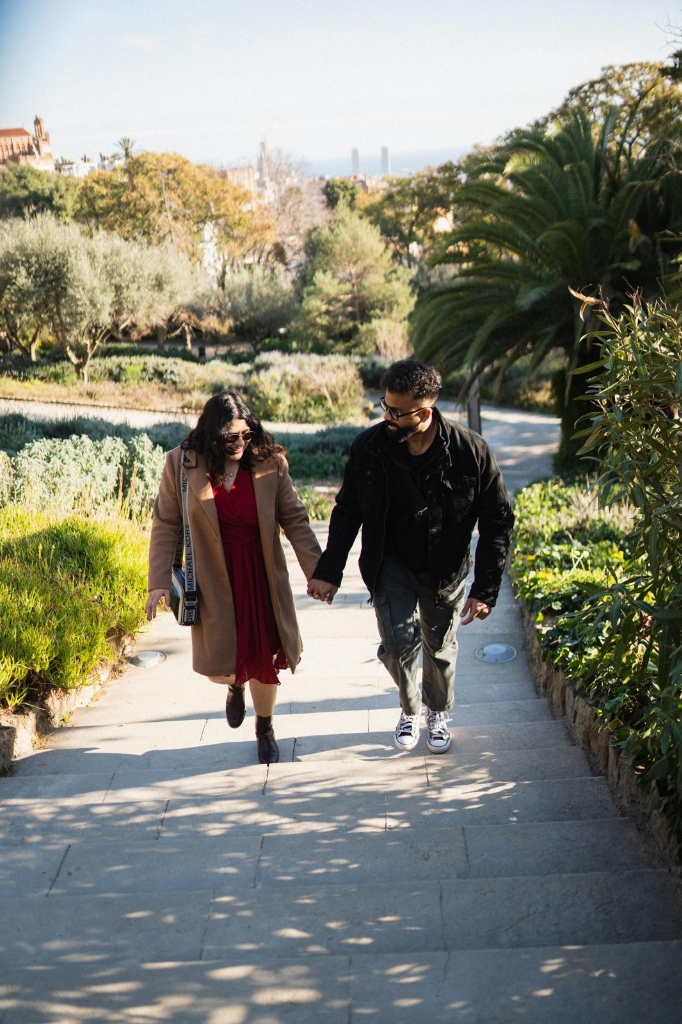
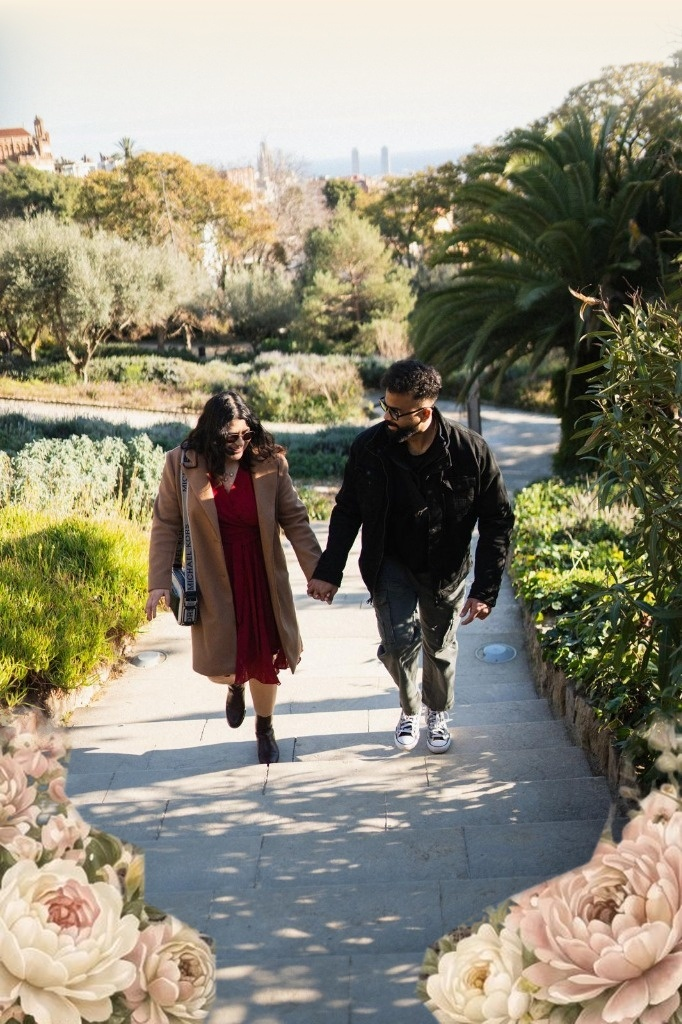
Style couple photo section like reference Image 1: full-width photo of Ariana & Aaron with soft top parchment fade, gold cursive header, and watercolor floral bouquets

diff --git a/index.html b/index.html
@@ -365,21 +365,14 @@ alt='' imgfield='tn_img_1773673546575'
     <a href="https://calendar.google.com/calendar/render?action=TEMPLATE&text=Ariana%20%26%20Aaron%20Wedding%20Celebration&dates=20270116T133000Z/20270116T153000Z&details=An%20evening%20of%20love%2C%20laughter%2C%20celebration%2C%20and%20togetherness.&location=Kovilakom%20Resort%2C%20Muhamma%2C%20Kerala%2C%20India" target="_blank" rel="noopener" style="display:inline-block;margin-top:12px;padding:10px 22px;background:transparent;color:#a67d2b;text-decoration:none;border:1.5px solid #a67d2b;border-radius:20px;font-family:'Cinzel',Georgia,serif;font-size:12px;letter-spacing:0.22em;text-transform:uppercase;">Add to Calendar</a>
   </div>
 </div> </div> </div> <div class='t396__elem tn-elem tn-elem__24874461631782460739526000001' data-elem-id='1782460739526000001' data-elem-type='image' data-field-top-value="-26" data-field-left-value="505" data-field-height-value="42" data-field-width-value="190" data-field-axisy-value="top" data-field-axisx-value="left" data-field-container-value="grid" data-field-topunits-value="px" data-field-leftunits-value="px" data-field-heightunits-value="px" data-field-widthunits-value="px" data-field-filewidth-value="605" data-field-fileheight-value="135" data-field-heightmode-value="hug" data-field-left-res-320-value="65" data-field-height-res-320-value="42" data-field-left-res-480-value="145" data-field-height-res-480-value="42" data-field-left-res-640-value="225" data-field-height-res-640-value="42" data-field-left-res-960-value="385" data-field-height-res-960-value="42"> <div class='tn-atom'> <img class='tn-atom__img t-img' data-original='images/cdn/noroot_6.png' src='images/cdn/noroot_6.png' alt='' imgfield='' /> </div> </div> <div class='t396__elem tn-elem tn-elem__24874461631782460739527000002' data-elem-id='1782460739527000002' data-elem-type='image' data-field-top-value="328" data-field-left-value="505" data-field-height-value="42" data-field-width-value="190" data-field-axisy-value="top" data-field-axisx-value="left" data-field-container-value="grid" data-field-topunits-value="px" data-field-leftunits-value="px" data-field-heightunits-value="px" data-field-widthunits-value="px" data-field-filewidth-value="605" data-field-fileheight-value="135" data-field-heightmode-value="hug" data-field-left-res-320-value="65" data-field-height-res-320-value="42" data-field-left-res-480-value="145" data-field-height-res-480-value="42" data-field-left-res-640-value="225" data-field-height-res-640-value="42" data-field-left-res-960-value="385" data-field-height-res-960-value="42"> <div class='tn-atom'> <img class='tn-atom__img t-img' data-original='images/cdn/noroot_11.png' src='images/cdn/noroot_11.png' alt='' imgfield='' /> </div> </div> </div> </div> <script>t_onReady(function() {t_onFuncLoad('t396_init',function() {t396_init('2487446163');});});</script> <!-- /T396 --> </div> <div id="rec2487446183" class="r t-rec t-rec_pt_0 t-rec_pb_0" style="padding-top:0px;padding-bottom:0px;background-color:#f6f1e8; " data-animationappear="off" data-record-type="396" data-bg-color="#f6f1e8"> <!-- T396 --> <style>#rec2487446183 .t396__artboard {height:520px;background-color:#f9f0e0;}#rec2487446183 .t396__filter {height:520px;}#rec2487446183 .t396__carrier{height:520px;background-position:center center;background-attachment:scroll;background-size:cover;background-repeat:no-repeat;}@media screen and (max-width:1199px) {#rec2487446183 .t396__artboard,#rec2487446183 .t396__filter,#rec2487446183 .t396__carrier {height:491px;}#rec2487446183 .t396__filter {}#rec2487446183 .t396__carrier {background-attachment:scroll;}}@media screen and (max-width:959px) {#rec2487446183 .t396__artboard,#rec2487446183 .t396__filter,#rec2487446183 .t396__carrier {height:491px;}#rec2487446183 .t396__filter {}#rec2487446183 .t396__carrier {background-attachment:scroll;}}@media screen and (max-width:639px) {#rec2487446183 .t396__artboard,#rec2487446183 .t396__filter,#rec2487446183 .t396__carrier {height:491px;}#rec2487446183 .t396__filter {}#rec2487446183 .t396__carrier {background-attachment:scroll;}}@media screen and (max-width:479px) {#rec2487446183 .t396__artboard,#rec2487446183 .t396__filter,#rec2487446183 .t396__carrier {height:491px;}#rec2487446183 .t396__filter {}#rec2487446183 .t396__carrier {background-attachment:scroll;}}#rec2487446183 .tn-elem[data-elem-id="1779531257276000001"]{z-index:3;top:-183px;;left:calc(50% - 600px + 212px);;width:122px;height:auto;}#rec2487446183 .tn-elem[data-elem-id="1779531257276000001"] .tn-atom{border-radius:0px 0px 0px 0px;background-position:center center;border-width:var(--t396-borderwidth,0);border-style:var(--t396-borderstyle,solid);border-color:var(--t396-bordercolor,transparent);transition:background-color var(--t396-speedhover,0s) ease-in-out,color var(--t396-speedhover,0s) ease-in-out,border-color var(--t396-speedhover,0s) ease-in-out,box-shadow var(--t396-shadowshoverspeed,0.2s) ease-in-out;}#rec2487446183 .tn-elem[data-elem-id="1779531257276000001"] .tn-atom__img{border-radius:0px 0px 0px 0px;object-position:center center;}@media screen and (max-width:1199px){#rec2487446183 .tn-elem[data-elem-id="1779531257276000001"]{display:table;left:calc(50% - 480px + 224px);;height:auto;}}@media screen and (max-width:959px){#rec2487446183 .tn-elem[data-elem-id="1779531257276000001"]{display:table;left:calc(50% - 320px + 64px);;height:auto;}}@media screen and (max-width:639px){#rec2487446183 .tn-elem[data-elem-id="1779531257276000001"]{display:table;left:calc(50% - 240px + -16px);;height:auto;}}@media screen and (max-width:479px){#rec2487446183 .tn-elem[data-elem-id="1779531257276000001"]{display:table;left:calc(50% - 160px + -96px);;height:auto;}}#rec2487446183 .tn-elem[data-elem-id="1779529136519000001"]{display:block;z-index:3;top:20px;;left:calc(50% - 600px + 228px);;width:744px;height:453px;}#rec2487446183 .tn-elem[data-elem-id="1779529136519000001"] .tn-atom{display:block;height:100%;box-sizing:border-box;border-radius:0px 0px 0px 0px;background-position:center center;border-width:var(--t396-borderwidth,0);border-style:var(--t396-borderstyle,solid);border-color:var(--t396-bordercolor,transparent);transition:background-color var(--t396-speedhover,0s) ease-in-out,color var(--t396-speedhover,0s) ease-in-out,border-color var(--t396-speedhover,0s) ease-in-out,box-shadow var(--t396-shadowshoverspeed,0.2s) ease-in-out;}#rec2487446183 .tn-elem[data-elem-id="1779529136519000001"] .tn-atom__img{border-radius:0px 0px 0px 0px;object-fit:fill;height:100%;object-position:center center;}@media screen and (max-width:1199px){#rec2487446183 .tn-elem[data-elem-id="1779529136519000001"]{display:block;left:calc(50% - 480px + 108px);;height:453px;}}@media screen and (max-width:959px){#rec2487446183 .tn-elem[data-elem-id="1779529136519000001"]{display:block;left:calc(50% - 320px + -52px);;height:454px;}}@media screen and (max-width:639px){#rec2487446183 .tn-elem[data-elem-id="1779529136519000001"]{display:block;left:calc(50% - 240px + -132px);;height:452px;}}@media screen and (max-width:479px){#rec2487446183 .tn-elem[data-elem-id="1779529136519000001"]{display:block;left:calc(50% - 160px + -212px);;height:452px;}}#rec2487446183 .tn-elem[data-elem-id="1772813849329000001"]{color:#6c513f;text-align:center;z-index:3;top:361px;;left:calc(50% - 600px + 445px);;width:310px;height:auto;}#rec2487446183 .tn-elem[data-elem-id="1772813849329000001"] .tn-atom{vertical-align:middle;color:#6c513f;font-size:21px;font-family:'NewFonts',Arial,sans-serif;line-height:1.25;font-weight:100;background-position:center center;border-width:var(--t396-borderwidth,0);border-style:var(--t396-borderstyle,solid);border-color:var(--t396-bordercolor,transparent);transition:background-color var(--t396-speedhover,0s) ease-in-out,color var(--t396-speedhover,0s) ease-in-out,border-color var(--t396-speedhover,0s) ease-in-out,box-shadow var(--t396-shadowshoverspeed,0.2s) ease-in-out;--t396-shadow-text-opacity:100%;text-shadow:var(--t396-shadow-text-x,0px) var(--t396-shadow-text-y,0px) var(--t396-shadow-text-blur,0px) rgba(var(--t396-shadow-text-color),var(--t396-shadow-text-opacity,100%));}@media screen and (max-width:1199px){#rec2487446183 .tn-elem[data-elem-id="1772813849329000001"]{display:table;left:calc(50% - 480px + 325px);;width:px;height:auto;}#rec2487446183 .tn-elem[data-elem-id="1772813849329000001"] .tn-atom{white-space:normal;background-size:cover;}}@media screen and (max-width:959px){#rec2487446183 .tn-elem[data-elem-id="1772813849329000001"]{display:table;left:calc(50% - 320px + 165px);;width:px;height:auto;}#rec2487446183 .tn-elem[data-elem-id="1772813849329000001"] .tn-atom{white-space:normal;background-size:cover;}}@media screen and (max-width:639px){#rec2487446183 .tn-elem[data-elem-id="1772813849329000001"]{display:table;left:calc(50% - 240px + 85px);;width:px;height:auto;}#rec2487446183 .tn-elem[data-elem-id="1772813849329000001"] .tn-atom{white-space:normal;background-size:cover;}}@media screen and (max-width:479px){#rec2487446183 .tn-elem[data-elem-id="1772813849329000001"]{display:table;left:calc(50% - 160px + 5px);;width:px;height:auto;}#rec2487446183 .tn-elem[data-elem-id="1772813849329000001"] .tn-atom{white-space:normal;background-size:cover;}}#rec2487446183 .tn-elem[data-elem-id="1763405219328"]{color:#a67d2b;text-align:center;z-index:3;top:284px;;left:calc(50% - 600px + 320px);;width:560px;height:auto;}#rec2487446183 .tn-elem[data-elem-id="1763405219328"] .tn-atom{vertical-align:middle;color:#a67d2b;font-size:41px;font-family:'NewFonts',Arial,sans-serif;line-height:1.55;font-weight:300;background-position:center center;border-width:var(--t396-borderwidth,0);border-style:var(--t396-borderstyle,solid);border-color:var(--t396-bordercolor,transparent);transition:background-color var(--t396-speedhover,0s) ease-in-out,color var(--t396-speedhover,0s) ease-in-out,border-color var(--t396-speedhover,0s) ease-in-out,box-shadow var(--t396-shadowshoverspeed,0.2s) ease-in-out;--t396-shadow-text-opacity:100%;text-shadow:var(--t396-shadow-text-x,0px) var(--t396-shadow-text-y,0px) var(--t396-shadow-text-blur,0px) rgba(var(--t396-shadow-text-color),var(--t396-shadow-text-opacity,100%));}@media screen and (max-width:1199px){#rec2487446183 .tn-elem[data-elem-id="1763405219328"]{display:table;left:calc(50% - 480px + 200px);;width:px;height:auto;}#rec2487446183 .tn-elem[data-elem-id="1763405219328"] .tn-atom{white-space:normal;background-size:cover;}}@media screen and (max-width:959px){#rec2487446183 .tn-elem[data-elem-id="1763405219328"]{display:table;left:calc(50% - 320px + 40px);;width:px;height:auto;}#rec2487446183 .tn-elem[data-elem-id="1763405219328"] .tn-atom{white-space:normal;background-size:cover;}}@media screen and (max-width:639px){#rec2487446183 .tn-elem[data-elem-id="1763405219328"]{display:table;left:calc(50% - 240px + -40px);;width:px;height:auto;}#rec2487446183 .tn-elem[data-elem-id="1763405219328"] .tn-atom{white-space:normal;background-size:cover;}}@media screen and (max-width:479px){#rec2487446183 .tn-elem[data-elem-id="1763405219328"]{display:table;left:calc(50% - 160px + -120px);;width:px;height:auto;}#rec2487446183 .tn-elem[data-elem-id="1763405219328"] .tn-atom{white-space:normal;background-size:cover;}}#rec2487446183 .tn-elem[data-elem-id="1778524751695000001"]{color:#6c513f;text-align:center;z-index:3;top:163px;;left:calc(50% - 600px + 445px);;width:310px;height:auto;}#rec2487446183 .tn-elem[data-elem-id="1778524751695000001"] .tn-atom{vertical-align:middle;color:#6c513f;font-size:21px;font-family:'NewFonts',Arial,sans-serif;line-height:1.25;font-weight:100;background-position:center center;border-width:var(--t396-borderwidth,0);border-style:var(--t396-borderstyle,solid);border-color:var(--t396-bordercolor,transparent);transition:background-color var(--t396-speedhover,0s) ease-in-out,color var(--t396-speedhover,0s) ease-in-out,border-color var(--t396-speedhover,0s) ease-in-out,box-shadow var(--t396-shadowshoverspeed,0.2s) ease-in-out;--t396-shadow-text-opacity:100%;text-shadow:var(--t396-shadow-text-x,0px) var(--t396-shadow-text-y,0px) var(--t396-shadow-text-blur,0px) rgba(var(--t396-shadow-text-color),var(--t396-shadow-text-opacity,100%));}@media screen and (max-width:1199px){#rec2487446183 .tn-elem[data-elem-id="1778524751695000001"]{display:table;left:calc(50% - 480px + 325px);;width:px;height:auto;}#rec2487446183 .tn-elem[data-elem-id="1778524751695000001"] .tn-atom{white-space:normal;background-size:cover;}}@media screen and (max-width:959px){#rec2487446183 .tn-elem[data-elem-id="1778524751695000001"]{display:table;left:calc(50% - 320px + 165px);;width:px;height:auto;}#rec2487446183 .tn-elem[data-elem-id="1778524751695000001"] .tn-atom{white-space:normal;background-size:cover;}}@media screen and (max-width:639px){#rec2487446183 .tn-elem[data-elem-id="1778524751695000001"]{display:table;left:calc(50% - 240px + 85px);;width:px;height:auto;}#rec2487446183 .tn-elem[data-elem-id="1778524751695000001"] .tn-atom{white-space:normal;background-size:cover;}}@media screen and (max-width:479px){#rec2487446183 .tn-elem[data-elem-id="1778524751695000001"]{display:table;left:calc(50% - 160px + 10px);;width:300px;height:auto;}#rec2487446183 .tn-elem[data-elem-id="1778524751695000001"] .tn-atom{white-space:normal;background-size:cover;}}#rec2487446183 .tn-elem[data-elem-id="1778524751695000002"]{color:#a67d2b;text-align:center;z-index:3;top:86px;;left:calc(50% - 600px + 320px);;width:560px;height:auto;}#rec2487446183 .tn-elem[data-elem-id="1778524751695000002"] .tn-atom{vertical-align:middle;color:#a67d2b;font-size:41px;font-family:'NewFonts',Arial,sans-serif;line-height:1.55;font-weight:300;background-position:center center;border-width:var(--t396-borderwidth,0);border-style:var(--t396-borderstyle,solid);border-color:var(--t396-bordercolor,transparent);transition:background-color var(--t396-speedhover,0s) ease-in-out,color var(--t396-speedhover,0s) ease-in-out,border-color var(--t396-speedhover,0s) ease-in-out,box-shadow var(--t396-shadowshoverspeed,0.2s) ease-in-out;--t396-shadow-text-opacity:100%;text-shadow:var(--t396-shadow-text-x,0px) var(--t396-shadow-text-y,0px) var(--t396-shadow-text-blur,0px) rgba(var(--t396-shadow-text-color),var(--t396-shadow-text-opacity,100%));}@media screen and (max-width:1199px){#rec2487446183 .tn-elem[data-elem-id="1778524751695000002"]{display:table;left:calc(50% - 480px + 200px);;width:px;height:auto;}#rec2487446183 .tn-elem[data-elem-id="1778524751695000002"] .tn-atom{white-space:normal;background-size:cover;}}@media screen and (max-width:959px){#rec2487446183 .tn-elem[data-elem-id="1778524751695000002"]{display:table;left:calc(50% - 320px + 40px);;width:px;height:auto;}#rec2487446183 .tn-elem[data-elem-id="1778524751695000002"] .tn-atom{white-space:normal;background-size:cover;}}@media screen and (max-width:639px){#rec2487446183 .tn-elem[data-elem-id="1778524751695000002"]{display:table;left:calc(50% - 240px + -40px);;width:px;height:auto;}#rec2487446183 .tn-elem[data-elem-id="1778524751695000002"] .tn-atom{white-space:normal;background-size:cover;}}@media screen and (max-width:479px){#rec2487446183 .tn-elem[data-elem-id="1778524751695000002"]{display:table;left:calc(50% - 160px + -120px);;width:px;height:auto;}#rec2487446183 .tn-elem[data-elem-id="1778524751695000002"] .tn-atom{white-space:normal;background-size:cover;}}#rec2487446183 .tn-elem[data-elem-id="1780166531595"]{z-index:3;top:-614px;;left:calc(50% - 600px + 317px);;width:587px;height:auto;}#rec2487446183 .tn-elem[data-elem-id="1780166531595"] .tn-atom{border-radius:0px 0px 0px 0px;background-position:center center;border-width:var(--t396-borderwidth,0);border-style:var(--t396-borderstyle,solid);border-color:var(--t396-bordercolor,transparent);transition:background-color var(--t396-speedhover,0s) ease-in-out,color var(--t396-speedhover,0s) ease-in-out,border-color var(--t396-speedhover,0s) ease-in-out,box-shadow var(--t396-shadowshoverspeed,0.2s) ease-in-out;}#rec2487446183 .tn-elem[data-elem-id="1780166531595"] .tn-atom__img{border-radius:0px 0px 0px 0px;object-position:center center;}@media screen and (max-width:1199px){#rec2487446183 .tn-elem[data-elem-id="1780166531595"]{display:table;height:auto;}}@media screen and (max-width:959px){#rec2487446183 .tn-elem[data-elem-id="1780166531595"]{display:table;height:auto;}}@media screen and (max-width:639px){#rec2487446183 .tn-elem[data-elem-id="1780166531595"]{display:table;height:auto;}}@media screen and (max-width:479px){#rec2487446183 .tn-elem[data-elem-id="1780166531595"]{display:table;height:auto;}}#rec2487446183 .tn-elem[data-elem-id="1780167075599000003"]{z-index:3;top:9px;;left:calc(50% - 600px + 658px);;width:305px;height:auto;}#rec2487446183 .tn-elem.t396__elem--anim-hidden[data-elem-id="1780167075599000003"]{opacity:0;}#rec2487446183 .tn-elem[data-elem-id="1780167075599000003"] .tn-atom{border-radius:0px 0px 0px 0px;background-position:center center;border-width:var(--t396-borderwidth,0);border-style:var(--t396-borderstyle,solid);border-color:var(--t396-bordercolor,transparent);transition:background-color var(--t396-speedhover,0s) ease-in-out,color var(--t396-speedhover,0s) ease-in-out,border-color var(--t396-speedhover,0s) ease-in-out,box-shadow var(--t396-shadowshoverspeed,0.2s) ease-in-out;}#rec2487446183 .tn-elem[data-elem-id="1780167075599000003"] .tn-atom__img{border-radius:0px 0px 0px 0px;object-position:center center;}@media screen and (max-width:1199px){#rec2487446183 .tn-elem[data-elem-id="1780167075599000003"]{display:table;left:calc(50% - 480px + 558px);;height:auto;}}@media screen and (max-width:959px){#rec2487446183 .tn-elem[data-elem-id="1780167075599000003"]{display:table;left:calc(50% - 320px + 378px);;height:auto;}}@media screen and (max-width:639px){#rec2487446183 .tn-elem[data-elem-id="1780167075599000003"]{display:table;left:calc(50% - 240px + 248px);;height:auto;}}@media screen and (max-width:479px){#rec2487446183 .tn-elem[data-elem-id="1780167075599000003"]{display:table;top:-1px;;left:calc(50% - 160px + 155px);;width:276px;height:auto;}#rec2487446183 .tn-elem[data-elem-id="1780167075599000003"] .tn-atom{background-size:cover;-webkit-transform:rotate(1deg);-moz-transform:rotate(1deg);transform:rotate(1deg);}}#rec2487446183 .tn-elem[data-elem-id="1780167004386000002"]{z-index:3;top:264px;;left:calc(50% - 600px + 305px);;width:251px;height:auto;}#rec2487446183 .tn-elem.t396__elem--anim-hidden[data-elem-id="1780167004386000002"]{opacity:0;}#rec2487446183 .tn-elem[data-elem-id="1780167004386000002"] .tn-atom{border-radius:0px 0px 0px 0px;background-position:center center;border-width:var(--t396-borderwidth,0);border-style:var(--t396-borderstyle,solid);border-color:var(--t396-bordercolor,transparent);transition:background-color var(--t396-speedhover,0s) ease-in-out,color var(--t396-speedhover,0s) ease-in-out,border-color var(--t396-speedhover,0s) ease-in-out,box-shadow var(--t396-shadowshoverspeed,0.2s) ease-in-out;-webkit-transform:rotate(274deg);-moz-transform:rotate(274deg);transform:rotate(274deg);}#rec2487446183 .tn-elem[data-elem-id="1780167004386000002"] .tn-atom__img{border-radius:0px 0px 0px 0px;object-position:center center;}@media screen and (max-width:1199px){#rec2487446183 .tn-elem[data-elem-id="1780167004386000002"]{display:table;left:calc(50% - 480px + 185px);;height:auto;}}@media screen and (max-width:959px){#rec2487446183 .tn-elem[data-elem-id="1780167004386000002"]{display:table;left:calc(50% - 320px + 35px);;height:auto;}}@media screen and (max-width:639px){#rec2487446183 .tn-elem[data-elem-id="1780167004386000002"]{display:table;left:calc(50% - 240px + -25px);;height:auto;}}@media screen and (max-width:479px){#rec2487446183 .tn-elem[data-elem-id="1780167004386000002"]{display:table;left:calc(50% - 160px + -80px);;height:auto;}}</style> <div class='t396'> <div class="t396__artboard" data-artboard-recid="2487446183" data-artboard-screens="320,480,640,960,1200" data-artboard-height="520" data-artboard-valign="center" data-artboard-upscale="grid" data-artboard-height-res-320="510" data-artboard-height-res-480="510" data-artboard-height-res-640="510" data-artboard-height-res-960="520"> <div class="t396__carrier" data-artboard-recid="2487446183"></div> <div class="t396__filter" data-artboard-recid="2487446183"></div> <div class='t396__elem tn-elem js-delay-anim tn-elem__24874461831779531257276000001 t-animate' data-elem-id='1779531257276000001' data-elem-type='image' data-field-top-value="-183" data-field-left-value="212" data-field-height-value="112" data-field-width-value="122" data-field-axisy-value="top" data-field-axisx-value="left" data-field-container-value="grid" data-field-topunits-value="px" data-field-leftunits-value="px" data-field-heightunits-value="px" data-field-widthunits-value="px" data-animate-style="zoomin" data-animate-duration="2.3" data-animate-scale="0.3" data-animate-mobile="y" data-field-filewidth-value="1309" data-field-fileheight-value="1201" data-field-heightmode-value="hug" data-field-left-res-320-value="-96" data-field-height-res-320-value="112" data-field-left-res-480-value="-16" data-field-height-res-480-value="112" data-field-left-res-640-value="64" data-field-height-res-640-value="112" data-field-left-res-960-value="224" data-field-height-res-960-value="112"> <div class='tn-atom'> <img class='tn-atom__img t-img' data-original='external/media.invitestory.in/wax-seal-royale/images/cdn/rose_-_Copy_1.png' src='external/media.invitestory.in/wax-seal-royale/images/cdn/rose_-_Copy_1.png' alt='' imgfield='' /> </div> </div> <div class='t396__elem tn-elem tn-elem__24874461831779529136519000001' data-elem-id='1779529136519000001' data-elem-type='image' data-field-top-value="20" data-field-left-value="228" data-field-height-value="453" data-field-width-value="744" data-field-axisy-value="top" data-field-axisx-value="left" data-field-container-value="grid" data-field-topunits-value="px" data-field-leftunits-value="px" data-field-heightunits-value="px" data-field-widthunits-value="px" data-field-filewidth-value="1680" data-field-fileheight-value="833" data-field-widthmode-value="fixed" data-field-heightmode-value="fixed" data-field-left-res-320-value="-212" data-field-height-res-320-value="452" data-field-left-res-480-value="-132" data-field-height-res-480-value="452" data-field-left-res-640-value="-52" data-field-height-res-640-value="454" data-field-left-res-960-value="108" data-field-height-res-960-value="453"> <div class='tn-atom'> <img class='tn-atom__img t-img' data-original='external/media.invitestory.in/wax-seal-royale/images/cdn/623915249_2629494717_2.png' src='external/media.invitestory.in/wax-seal-royale/images/cdn/623915249_2629494717_2.png' alt='' imgfield='' /> </div> </div> <div class='t396__elem tn-elem tn-elem__24874461831772813849329000001 t-animate' data-elem-id='1772813849329000001' data-elem-type='text' data-field-top-value="361" data-field-left-value="445" data-field-height-value="26" data-field-width-value="310" data-field-axisy-value="top" data-field-axisx-value="left" data-field-container-value="grid" data-field-topunits-value="px" data-field-leftunits-value="px" data-field-heightunits-value="px" data-field-widthunits-value="px" data-animate-style="fadeinup" data-animate-duration="2" data-animate-distance="40" data-animate-mobile="y" data-field-textfit-value="autoheight" data-field-fontsize-value="21" data-field-left-res-320-value="5" data-field-left-res-480-value="85" data-field-left-res-640-value="165" data-field-left-res-960-value="325"> <div class='tn-atom'field='tn_text_1772813849329000001'></div> </div> <div class='t396__elem tn-elem tn-elem__24874461831763405219328' data-elem-id='1763405219328' data-elem-type='text' data-field-top-value="284" data-field-left-value="320" data-field-height-value="64" data-field-width-value="560" data-field-axisy-value="top" data-field-axisx-value="left" data-field-container-value="grid" data-field-topunits-value="px" data-field-leftunits-value="px" data-field-heightunits-value="px" data-field-widthunits-value="px" data-field-textfit-value="autoheight" data-field-fontsize-value="41" data-field-left-res-320-value="-120" data-field-left-res-480-value="-40" data-field-left-res-640-value="40" data-field-left-res-960-value="200"> <div class='tn-atom'field='tn_text_1763405219328'></div> </div> <div class='t396__elem tn-elem tn-elem__24874461831778524751695000001 t-animate' data-elem-id='1778524751695000001' data-elem-type='text' data-field-top-value="163" data-field-left-value="445" data-field-height-value="78" data-field-width-value="310" data-field-axisy-value="top" data-field-axisx-value="left" data-field-container-value="grid" data-field-topunits-value="px" data-field-leftunits-value="px" data-field-heightunits-value="px" data-field-widthunits-value="px" data-animate-style="fadeinup" data-animate-duration="2" data-animate-distance="40" data-animate-mobile="y" data-field-textfit-value="autoheight" data-field-fontsize-value="21" data-field-left-res-320-value="10" data-field-width-res-320-value="300" data-field-left-res-480-value="85" data-field-left-res-640-value="165" data-field-left-res-960-value="325"> <div class='tn-atom'field='tn_text_1778524751695000001'>We kindly ask our guests to avoid wearing white and red.</div> </div> <div class='t396__elem tn-elem tn-elem__24874461831778524751695000002' data-elem-id='1778524751695000002' data-elem-type='text' data-field-top-value="86" data-field-left-value="320" data-field-height-value="64" data-field-width-value="560" data-field-axisy-value="top" data-field-axisx-value="left" data-field-container-value="grid" data-field-topunits-value="px" data-field-leftunits-value="px" data-field-heightunits-value="px" data-field-widthunits-value="px" data-field-textfit-value="autoheight" data-field-fontsize-value="41" data-field-left-res-320-value="-120" data-field-left-res-480-value="-40" data-field-left-res-640-value="40" data-field-left-res-960-value="200"> <div class='tn-atom'field='tn_text_1778524751695000002'>Dress Code</div> </div> <div class='t396__elem tn-elem tn-elem__24874461831780166531595' data-elem-id='1780166531595' data-elem-type='image' data-field-top-value="-614" data-field-left-value="317" data-field-height-value="587" data-field-width-value="587" data-field-axisy-value="top" data-field-axisx-value="left" data-field-container-value="grid" data-field-topunits-value="px" data-field-leftunits-value="px" data-field-heightunits-value="px" data-field-widthunits-value="px" data-field-filewidth-value="1512" data-field-fileheight-value="1512" data-field-heightmode-value="hug" data-field-height-res-320-value="587" data-field-height-res-480-value="587" data-field-height-res-640-value="587" data-field-height-res-960-value="587"> <div class='tn-atom'> <img class='tn-atom__img t-img' data-original='external/media.invitestory.in/wax-seal-royale/images/cdn/623915249_2629494717_4.png' src='external/media.invitestory.in/wax-seal-royale/images/cdn/623915249_2629494717_4.png' alt='' imgfield='' /> </div> </div> <div class='t396__elem tn-elem tn-elem__24874461831780167075599000003 ' data-elem-id='1780167075599000003' data-elem-type='image' data-field-top-value="9" data-field-left-value="658" data-field-height-value="401" data-field-width-value="305" data-field-axisy-value="top" data-field-axisx-value="left" data-field-container-value="grid" data-field-topunits-value="px" data-field-leftunits-value="px" data-field-heightunits-value="px" data-field-widthunits-value="px" data-animate-mobile="y" data-animate-sbs-event="blockintoview" data-animate-sbs-trg="1" data-animate-sbs-trgofst="0" data-animate-sbs-loop="loop" data-animate-sbs-opts="[{'mx':0,'my':0,'sx':1,'sy':1,'op':1,'ro':0,'ti':0,'ea':'0','dt':0},{'mx':0,'my':0,'sx':1.02,'sy':1.02,'op':1,'ro':1,'ti':2000,'ea':'0','dt':0},{'mx':0,'my':0,'sx':1,'sy':1,'op':1,'ro':0,'ti':2000,'ea':'0','dt':0},{'mx':0,'my':0,'sx':0.98,'sy':0.98,'op':1,'ro':-1,'ti':2000,'ea':'0','dt':0},{'mx':0,'my':0,'sx':1,'sy':1,'op':1,'ro':0,'ti':2000,'ea':'0','dt':0}]" data-field-filewidth-value="498" data-field-fileheight-value="655" data-field-heightmode-value="hug" data-field-top-res-320-value="-1" data-field-left-res-320-value="155" data-field-height-res-320-value="363" data-field-width-res-320-value="276" data-field-left-res-480-value="248" data-field-height-res-480-value="401" data-field-left-res-640-value="378" data-field-height-res-640-value="401" data-field-left-res-960-value="558" data-field-height-res-960-value="401"> <div class='tn-atom'> <img class='tn-atom__img t-img' data-original='external/media.invitestory.in/wax-seal-royale/images/cdn/noroot_10.png' src='external/media.invitestory.in/wax-seal-royale/images/cdn/noroot_10.png' alt='' imgfield='' /> </div> </div> <div class='t396__elem tn-elem tn-elem__24874461831780167004386000002 ' data-elem-id='1780167004386000002' data-elem-type='image' data-field-top-value="264" data-field-left-value="305" data-field-height-value="240" data-field-width-value="251" data-field-axisy-value="top" data-field-axisx-value="left" data-field-container-value="grid" data-field-topunits-value="px" data-field-leftunits-value="px" data-field-heightunits-value="px" data-field-widthunits-value="px" data-animate-mobile="y" data-animate-sbs-event="blockintoview" data-animate-sbs-trg="1" data-animate-sbs-trgofst="0" data-animate-sbs-loop="loop" data-animate-sbs-opts="[{'mx':0,'my':0,'sx':1,'sy':1,'op':1,'ro':0,'ti':0,'ea':'0','dt':0},{'mx':0,'my':0,'sx':1.04,'sy':1.04,'op':1,'ro':1,'ti':1500,'ea':'0','dt':0},{'mx':0,'my':0,'sx':0.98,'sy':0.98,'op':1,'ro':0,'ti':1500,'ea':'0','dt':0},{'mx':0,'my':0,'sx':0.98,'sy':0.98,'op':1,'ro':-2,'ti':1500,'ea':'0','dt':0},{'mx':0,'my':0,'sx':1,'sy':1,'op':1,'ro':0,'ti':1500,'ea':'0','dt':0}]" data-field-filewidth-value="332" data-field-fileheight-value="317" data-field-heightmode-value="hug" data-field-left-res-320-value="-80" data-field-height-res-320-value="240" data-field-left-res-480-value="-25" data-field-height-res-480-value="240" data-field-left-res-640-value="35" data-field-height-res-640-value="240" data-field-left-res-960-value="185" data-field-height-res-960-value="240"> <div class='tn-atom'> <img class='tn-atom__img t-img' data-original='images/cdn/noroot_14.png' src='images/cdn/noroot_14.png' alt='' imgfield='' /> </div> </div> </div> </div> <script>t_onReady(function() {t_onFuncLoad('t396_init',function() {t396_init('2487446183');});});</script> <!-- /T396 --> </div>    
-<!-- Section: Couple Photo & Closing Message -->
+<!-- Section: Couple Photo & Closing Message (Styled like Image 1) -->
 <div id="rec-couple-photo" class="r t-rec couple-photo-section">
-  <div class="couple-photo-card">
-    <div class="couple-photo-title">Ariana &amp; Aaron</div>
-    <div class="couple-photo-frame">
-      <img src="editable/assets/photo1.jpg" alt="Ariana &amp; Aaron" class="couple-photo-img" />
-    </div>
-    <div class="couple-photo-quote">“Dos almas, un solo corazón”</div>
-    <div class="couple-photo-translation">Two souls, one heart.</div>
-    <div class="closing-message-wrap">
-      <div class="closing-divider">✦</div>
-      <div class="closing-text">We look forward to celebrating this special day with you!</div>
-      <div class="closing-signature-note">With love,</div>
-      <div class="closing-signature">Ariana &amp; Aaron</div>
-    </div>
+  <div class="closing-header-wrap">
+    <div class="closing-script-title">Hope to see you there!</div>
+    <div class="closing-names-title">Ariana and Aaron</div>
+  </div>
+  <div class="couple-photo-full-wrap">
+    <img src="editable/assets/photo1.jpg" alt="Ariana &amp; Aaron" class="couple-photo-full-img" />
   </div>
 </div>
 

diff --git a/css/custom.css b/css/custom.css
@@ -337,141 +337,86 @@ body {
   }
 }
 
-/* ── Sections 7 & 8: Couple Photo & Closing Message (No Overlap) ── */
+/* ── Sections 7 & 8: Couple Photo & Closing Message (Styled like Image 1) ── */
 .couple-photo-section {
   background-color: #f9f0e0;
-  padding: 60px 20px 90px;
-  margin-top: 15px;
+  padding: 48px 0 0;
+  margin-top: 0;
   display: flex;
-  justify-content: center;
+  flex-direction: column;
   align-items: center;
   position: relative;
   z-index: 5;
   clear: both;
-}
-
-.couple-photo-card {
-  max-width: 480px;
-  width: 100%;
-  background: #fdf8ee;
-  border: 1px solid #d9c9a8;
-  border-radius: 24px;
-  padding: 34px 26px 38px;
-  text-align: center;
-  box-shadow: 0 12px 36px rgba(166, 125, 43, 0.14);
-  position: relative;
-  box-sizing: border-box;
-}
-
-.couple-photo-title {
-  font-family: 'Cinzel', Georgia, serif;
-  font-size: 20px;
-  letter-spacing: 0.22em;
-  text-transform: uppercase;
-  color: #a67d2b;
-  margin-bottom: 22px;
-}
-
-.couple-photo-frame {
-  position: relative;
-  border-radius: 18px;
   overflow: hidden;
-  border: 2px solid #c9a96e;
-  box-shadow: 0 10px 28px rgba(90, 15, 27, 0.18);
-  max-width: 360px;
-  margin: 0 auto;
 }
 
-.couple-photo-img {
+.closing-header-wrap {
+  text-align: center;
+  padding: 0 20px;
+  margin-bottom: 24px;
+}
+
+.closing-script-title {
+  font-family: 'BeauRivage', 'ImperialScript', cursive;
+  font-size: 54px;
+  line-height: 1.15;
+  color: #a67d2b;
+  margin-bottom: 8px;
+  letter-spacing: 0.02em;
+}
+
+.closing-names-title {
+  font-family: 'Cinzel', Georgia, serif;
+  font-size: 26px;
+  line-height: 1.3;
+  color: #a67d2b;
+  letter-spacing: 0.12em;
+  text-transform: capitalize;
+  font-weight: 400;
+}
+
+.couple-photo-full-wrap {
+  width: 100%;
+  max-width: 580px;
+  margin: 0 auto;
+  position: relative;
+  display: block;
+  line-height: 0;
+}
+
+.couple-photo-full-img {
   width: 100%;
   height: auto;
   display: block;
   object-fit: cover;
 }
 
-.couple-photo-quote {
-  font-family: 'Cinzel', Georgia, serif;
-  font-size: 19px;
-  color: #5a0f1b;
-  margin-top: 24px;
-  letter-spacing: 0.05em;
-  line-height: 1.35;
-}
-
-.couple-photo-translation {
-  font-family: 'Ovo', Georgia, serif;
-  font-size: 16px;
-  font-style: italic;
-  color: #846f61;
-  margin-top: 6px;
-  letter-spacing: 0.03em;
-}
-
-.closing-message-wrap {
-  margin-top: 28px;
-  padding-top: 24px;
-  border-top: 1px solid rgba(166, 125, 43, 0.35);
-}
-
-.closing-divider {
-  color: #a67d2b;
-  font-size: 14px;
-  margin-bottom: 16px;
-  opacity: 0.85;
-}
-
-.closing-text {
-  font-family: 'Ovo', Georgia, serif;
-  font-size: 18px;
-  line-height: 1.6;
-  color: #6a5140;
-  font-style: italic;
-  max-width: 390px;
-  margin: 0 auto 18px;
-}
-
-.closing-signature-note {
-  font-family: 'Cinzel', Georgia, serif;
-  font-size: 13px;
-  letter-spacing: 0.18em;
-  color: #a67d2b;
-  text-transform: uppercase;
-  margin-bottom: 6px;
-}
-
-.closing-signature {
-  font-family: 'BeauRivage', 'ImperialScript', cursive, Georgia, serif;
-  font-size: 42px;
-  color: #5a0f1b;
-  line-height: 1.25;
-}
-
-@media screen and (max-width: 639px) {
+@media screen and (max-width: 640px) {
   .couple-photo-section {
-    padding: 50px 16px 70px;
-    margin-top: 10px;
+    padding-top: 36px;
   }
-  .couple-photo-card {
-    padding: 26px 18px 30px;
-    border-radius: 20px;
+  .closing-script-title {
+    font-size: 44px;
+    margin-bottom: 6px;
   }
-  .couple-photo-title {
-    font-size: 17px;
+  .closing-names-title {
+    font-size: 22px;
+    letter-spacing: 0.1em;
+  }
+  .closing-header-wrap {
     margin-bottom: 18px;
   }
-  .couple-photo-frame {
-    max-width: 300px;
+  .couple-photo-full-wrap {
+    max-width: 100%;
   }
-  .couple-photo-quote {
-    font-size: 17px;
+}
+
+@media screen and (max-width: 480px) {
+  .closing-script-title {
+    font-size: 40px;
   }
-  .couple-photo-translation {
-    font-size: 14.5px;
-  }
-  .closing-text {
-    font-size: 16px;
-  }
-  .closing-signature {
-    font-size: 34px;
+  .closing-names-title {
+    font-size: 20px;
   }
 }
